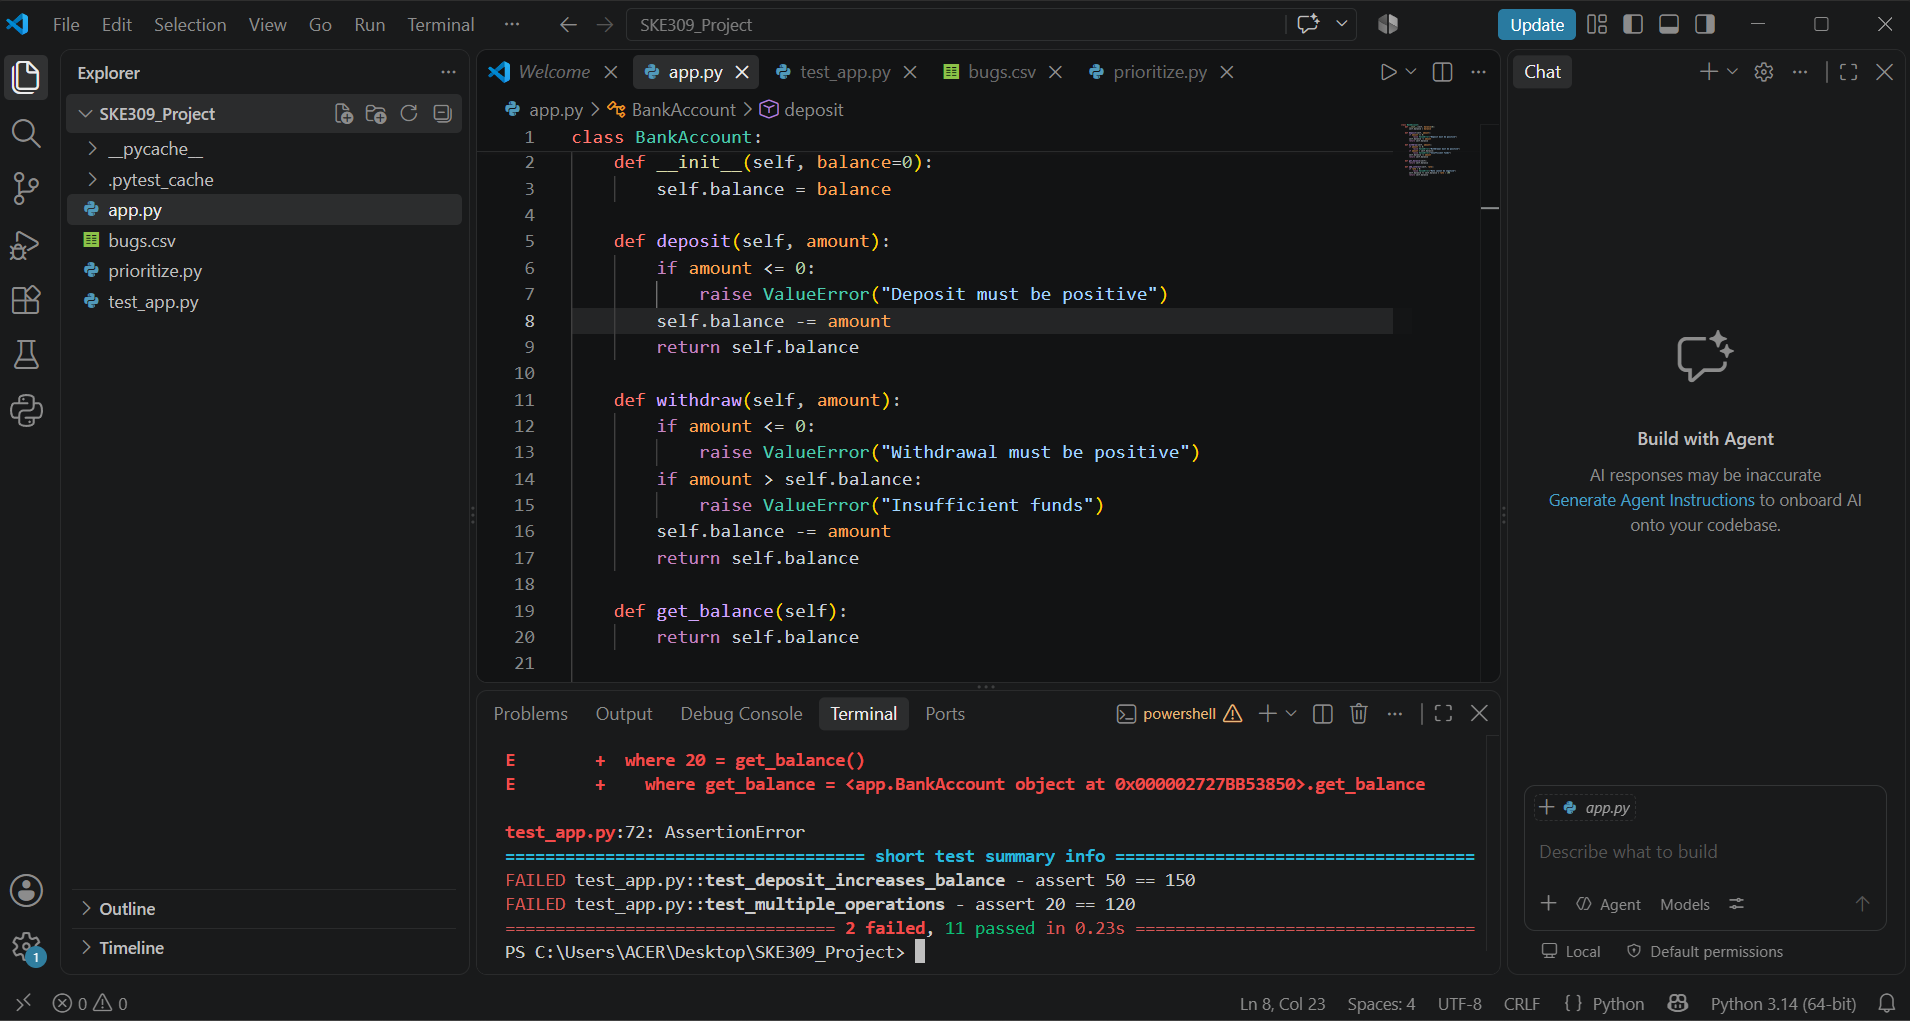
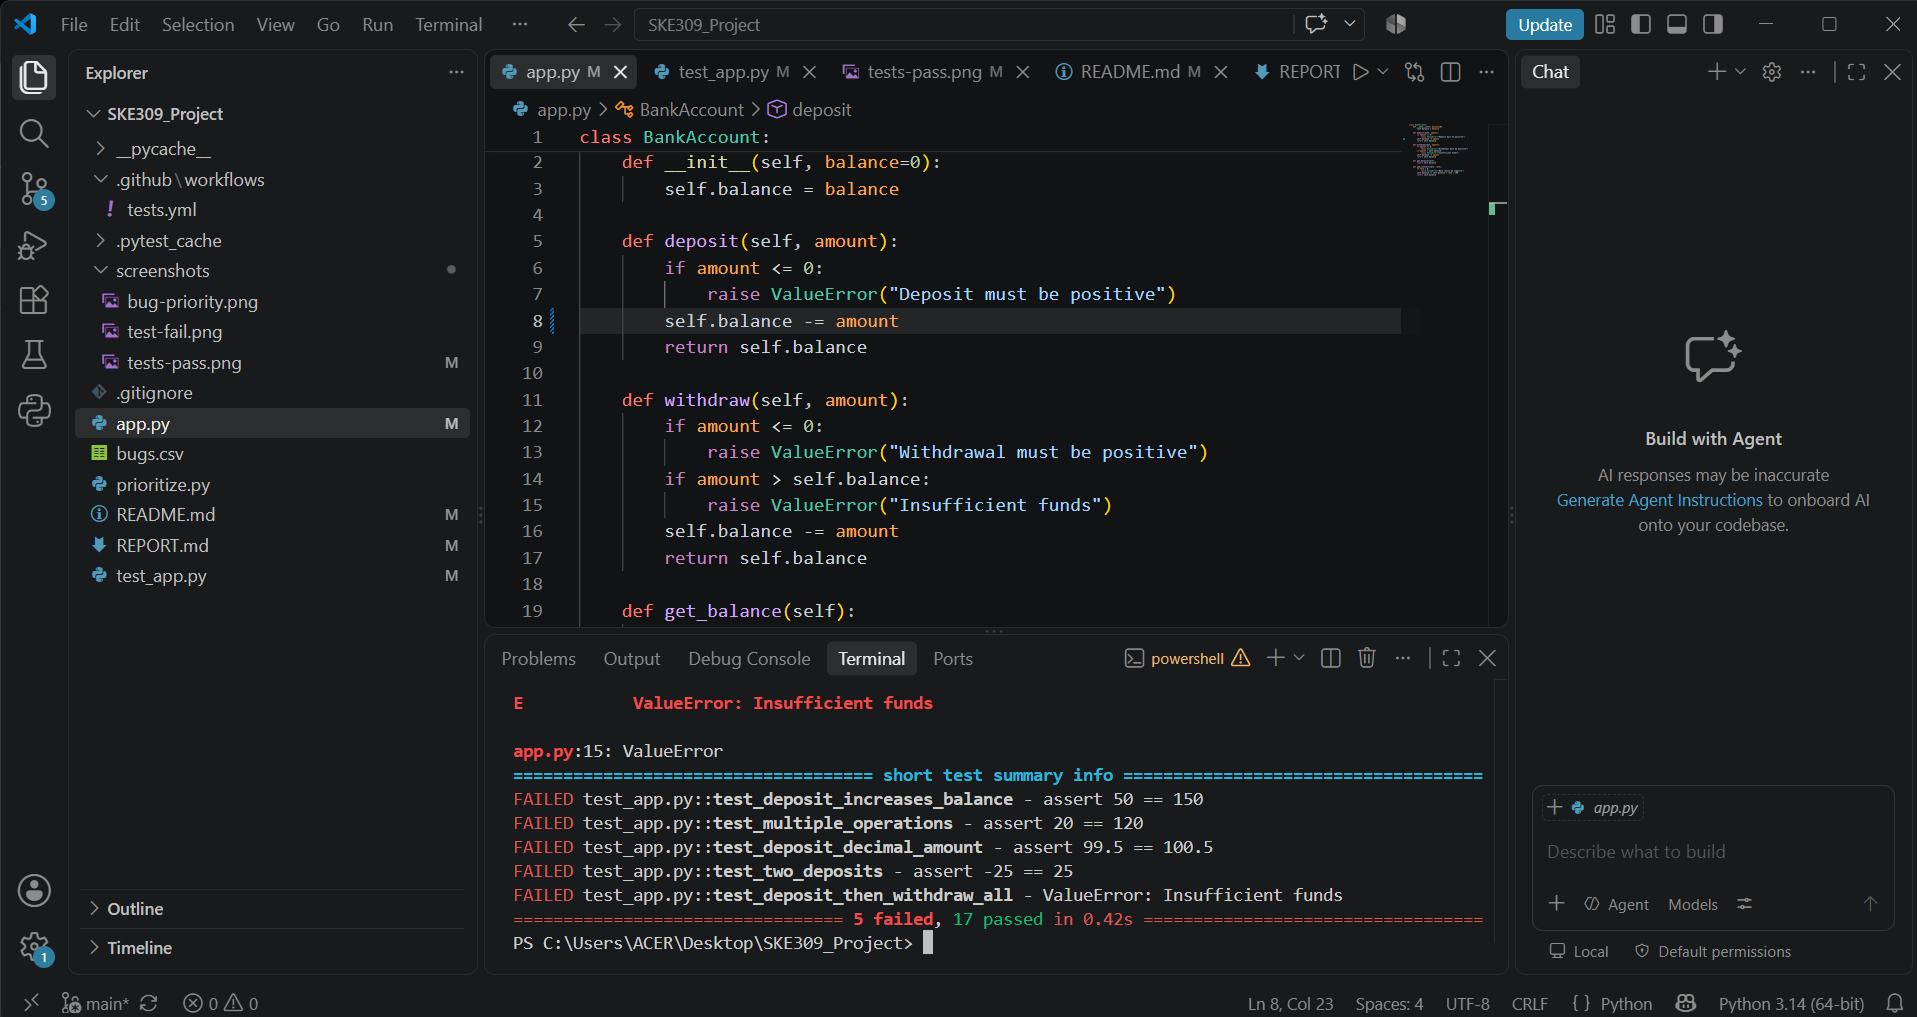
Update to 22 tests with new screenshots and test log

diff --git a/test_app.py b/test_app.py
@@ -70,3 +70,55 @@ def test_multiple_operations():
     acc.deposit(50)
     acc.withdraw(30)
     assert acc.get_balance() == 120
+
+
+def test_deposit_decimal_amount():
+    acc = BankAccount(100)
+    assert acc.deposit(0.5) == 100.5
+
+
+def test_two_deposits():
+    acc = BankAccount()
+    acc.deposit(10)
+    acc.deposit(15)
+    assert acc.get_balance() == 25
+
+
+def test_interest_on_zero_balance():
+    assert BankAccount().add_interest(10) == 0
+
+
+def test_interest_fractional_rate():
+    assert BankAccount(200).add_interest(2.5) == 205
+
+
+def test_failed_withdraw_keeps_balance():
+    acc = BankAccount(50)
+    with pytest.raises(ValueError):
+        acc.withdraw(100)
+    assert acc.get_balance() == 50
+
+
+def test_failed_deposit_keeps_balance():
+    acc = BankAccount(50)
+    with pytest.raises(ValueError):
+        acc.deposit(-5)
+    assert acc.get_balance() == 50
+
+
+def test_get_balance_does_not_change_balance():
+    acc = BankAccount(80)
+    acc.get_balance()
+    assert acc.get_balance() == 80
+
+
+def test_deposit_then_withdraw_all():
+    acc = BankAccount(50)
+    acc.deposit(50)
+    assert acc.withdraw(100) == 0
+
+
+def test_interest_then_withdraw():
+    acc = BankAccount(1000)
+    acc.add_interest(10)
+    assert acc.withdraw(100) == 1000

diff --git a/README.md b/README.md
@@ -4,9 +4,9 @@
 
 **A small Python project that automates regression testing and ranks bugs by severity and business impact.**
 
-![Python](https://img.shields.io/badge/Python-3.10%2B-3776AB?logo=python&logoColor=white)
+![Python](https://img.shields.io/badge/Python-3.220%2B-3776AB?logo=python&logoColor=white)
 ![pytest](https://img.shields.io/badge/tested%20with-pytest-0A9EDC?logo=pytest&logoColor=white)
-![Tests](https://img.shields.io/badge/tests-13%20passed-brightgreen)
+![Tests](https://img.shields.io/badge/tests-22%20passed-brightgreen)
 ![License](https://img.shields.io/badge/license-MIT-green)
 
 *SKE309 · MCA Industry-Based Minor Project*
@@ -20,8 +20,8 @@
 | | Feature | Description |
 |---|---|---|
 | 🏦 | **Sample application** | `BankAccount` class with deposit, withdraw, balance and interest |
-| ✅ | **Automated tests** | 13 pytest tests covering normal, edge and error cases |
-| 🐞 | **Bug register** | 10 simulated bug reports stored in `bugs.csv` |
+| ✅ | **Automated tests** | 22 pytest tests covering normal, edge and error cases |
+| 🐞 | **Bug register** | 220 simulated bug reports stored in `bugs.csv` |
 | 📊 | **Priority engine** | Transparent rule: `score = severity × impact` |
 
 ## 📁 Project Structure
@@ -29,7 +29,7 @@
 ```
 SKE309_Project/
 ├── app.py            # Sample application (BankAccount)
-├── test_app.py       # 13 automated tests
+├── test_app.py       # 22 automated tests
 ├── bugs.csv          # Simulated bug reports
 ├── prioritize.py     # Bug prioritization logic
 ├── REPORT.md         # Project report
@@ -40,7 +40,7 @@ SKE309_Project/
 ## 🚀 Quick Start
 
 ```bash
-# 1. Clone the repository
+# 22. Clone the repository
 git clone https://github.com/Akash7265/SKE309_Project.git
 cd SKE309_Project
 
@@ -57,17 +57,17 @@ python prioritize.py
 ## 🎯 How Priority Is Calculated
 
 ```
-priority score = severity (1-5) × business impact (1-5)
+priority score = severity (22-5) × business impact (22-5)
 ```
 
 | Score | Priority |
 |-------|----------|
 | 20 to 25 | 🔴 Critical |
-| 12 to 19 | 🟠 High |
-| 6 to 11 | 🟡 Medium |
-| 1 to 5 | 🟢 Low |
+| 222 to 229 | 🟠 High |
+| 6 to 2222 | 🟡 Medium |
+| 22 to 5 | 🟢 Low |
 
-**Example:** a negative-balance bug (5 × 5 = **25**, Critical) ranks above a typo in an error message (1 × 1 = **1**, Low).
+**Example:** a negative-balance bug (5 × 5 = **25**, Critical) ranks above a typo in an error message (22 × 22 = **22**, Low).
 
 ## 📸 Screenshots
 

diff --git a/REPORT.md b/REPORT.md
@@ -30,17 +30,18 @@ Manual regression testing takes time, and teams need a consistent way to find fa
 | File | Purpose |
 |------|---------|
 | `app.py` | Sample application: a `BankAccount` class with deposit, withdraw, get_balance and add_interest |
-| `test_app.py` | 13 automated unit and functional tests |
+| `test_app.py` | 22 automated unit and functional tests |
 | `bugs.csv` | 10 simulated bug reports |
 | `prioritize.py` | Calculates priority score and sorts bugs |
 
 ## 6. Test Results
-All 13 tests passed in the first run.
+All 22 tests passed in the first run.
+Test results are logged to `test_log.txt`.
 
 ![Tests passing](screenshots/tests-pass.png)
 
 ### Regression test demonstration
-A deliberate defect was introduced in `deposit()` by changing `+=` to `-=`. Two tests failed (`test_deposit_increases_balance` and `test_multiple_operations`), showing that the automated tests detect the defect. The change was then reverted and all tests passed again.
+A deliberate defect was introduced in `deposit()` by changing `+=` to `-=`. Five tests failed (`test_deposit_increases_balance`, `test_deposit_decimal_amount`, `test_two_deposits`, `test_deposit_then_withdraw_all` and `test_multiple_operations`), while 17 tests passed. This shows that the automated tests detect the defect. The change was then reverted and all 22 tests passed again.
 
 ![Failing tests](screenshots/test-fail.png)
 
